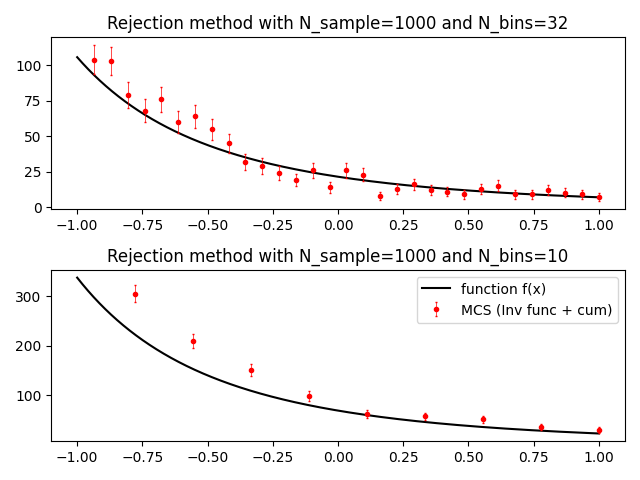
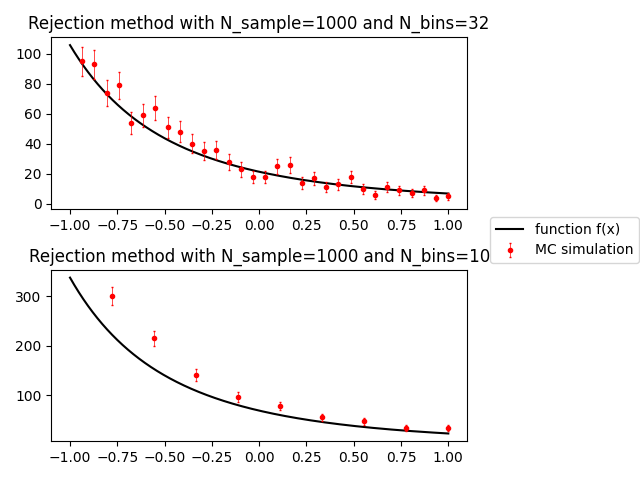
graphical improvements

diff --git a/Montecarlo/montecarlo_test.py b/Montecarlo/montecarlo_test.py
@@ -12,10 +12,11 @@ import os
 import sys
 sys.path.insert(0, '/home/lorenzo/GCE-and-MSPs/toolbox')
 from tools import bounded_norm_distr, bisection, newton_root_finder, log_scale_int, accum_func, func_shifter, func_norm, gaussian
+from gce import broken_pl, log_norm
 start_time = time.monotonic()
 
 
-exercise = 7      #to execute only one exercise at time
+exercise = 8      #to execute only one exercise at time
 
 #**************************************************************
 #plotting config
@@ -103,7 +104,7 @@ elif exercise == 3 :
     M = 5.0                               # Parameter of selection (must be as small as possible) 
     rng = np.random.default_rng()
 
-    comparison = True                       #If True generates different M comparison instead of simple plot
+    comparison = False                      #If True generates different M comparison instead of simple plot
  #-----------------------------------------------
  #Gaussian distr parameters   
     sigma = 1.0 
@@ -170,7 +171,8 @@ elif exercise == 3 :
         #ax.scatter(bin_means, y_n, marker = marker_st, color = marker_color)
         ax.errorbar(bin_means, y_n , yerr = y_err, color='r', capsize=1, capthick=1,ls='', elinewidth=0.5,marker='o',markersize=3, label = 'MCS (Rej-Acc method)')
         ax.plot(draw, func_norm(draw, myfunc, x_min, x_max, sample_dim)* bin_dim, color = "black", label = "function f(x)")
-        #ax.plot(draw, myfunc(draw) /i , color = "black", label = "function f(x)")
+        title = "Rejection method MCS  with N_sample = " + str(int(sample_dim))
+        ax.set_title(title)
 
         plt.legend()
         plt.savefig(os.path.join("RAM_function_sample.png"))
@@ -188,11 +190,10 @@ elif exercise == 3 :
 
 
         y_err = (y_n)**0.5                                              #error on counts
-        ax1.errorbar(bin_means, y_n , yerr = y_err, color='r', capsize=1, capthick=1,ls='', elinewidth=0.5,marker='o',markersize=3, label = 'MCS (Rej-Acc method)')
+        ax1.errorbar(bin_means, y_n , yerr = y_err, color='r', capsize=1, capthick=1,ls='', elinewidth=0.5,marker='o',markersize=3, label = 'MC simulation')
         ax1.plot(draw, func_norm(draw, myfunc, x_min, x_max, sample_dim)* bin_dim, color = "black", label = "function f(x)")
         title = "Rejection method (M = " + str(M) + ")"
         ax1.set_title(title)
-        plt.legend()
 
         temp = []
         counter = 0                     #counter of successfully selected points 
@@ -222,12 +223,14 @@ elif exercise == 3 :
 
 
         y_err = (y_n)**0.5                                              #error on counts
-        ax2.errorbar(bin_means, y_n , yerr = y_err, color='r', capsize=1, capthick=1,ls='', elinewidth=0.5,marker='o',markersize=3, label = 'MCS (Rej-Acc method)')
-        ax2.plot(draw, func_norm(draw, myfunc, x_min, x_max, sample_dim)* bin_dim, color = "black", label = "function f(x)")
+        ax2.errorbar(bin_means, y_n , yerr = y_err, color='r', capsize=1, capthick=1,ls='', elinewidth=0.5,marker='o',markersize=3)
+        ax2.plot(draw, func_norm(draw, myfunc, x_min, x_max, sample_dim)* bin_dim, color = "black")
         title = "Rejection method (M = " + str(M) + ")"
         ax2.set_title(title)
 
+        fig.legend(loc = 'center right',  borderaxespad=0.1,)
         fig.tight_layout()
+        plt.subplots_adjust(right = 0.75)
         plt.savefig(os.path.join("RAM_diff_M.png"))
 
 #**************************************************************
@@ -320,7 +323,7 @@ elif exercise == 5 :
     mid = (x_max + x_min)/2.0               #middle point can be use as first extimator
     draw = np.linspace(x_min, x_max, 10000)
 
-    guess_comp = False                       #generate plot for different guess point comparison
+    guess_comp = True                       #generate plot for different guess point comparison
   #-----------------------------------------------
  #f(x) parameters
     k = 1.0
@@ -381,9 +384,11 @@ elif exercise == 5 :
 
         y_err = (y_n)**0.5                                          #error on counts
         #count, bins, ignored = ax.hist(x, n_bins, density=True)
-        ax.errorbar(bin_means, y_n , yerr = y_err, color='r', capsize=1, capthick=1,ls='', elinewidth=0.5,marker='o',markersize=3, label = 'MCS (Inv func + fsolve)')
-    
+        ax.errorbar(bin_means, y_n , yerr = y_err, color='r', capsize=1, capthick=1,ls='', elinewidth=0.5,marker='o',markersize=3, label = 'MCS (Inv func + fsolve)')    
         ax.plot(draw, myfunc(draw)*bin_dim*sample_dim, color = "black", label = "function f(x)")
+        title = "Inverse function method (via fsolve) with N_sample = " + str(int(sample_dim))
+        ax.set_title(title)
+
 
         plt.legend()
         plt.savefig(os.path.join("inv_func_sample(fsolve).png"))
@@ -401,7 +406,7 @@ elif exercise == 5 :
 
         y_err = (y_n)**0.5                                          #error on counts
         #count, bins, ignored = ax.hist(x, n_bins, density=True)
-        ax1.errorbar(bin_means, y_n , yerr = y_err, color='r', capsize=1, capthick=1,ls='', elinewidth=0.5,marker='o',markersize=3, label = 'MCS (Inv func + fsolve)')
+        ax1.errorbar(bin_means, y_n , yerr = y_err, color='r', capsize=1, capthick=1,ls='', elinewidth=0.5,marker='o',markersize=3, label = 'MC simulation')
     
         ax1.plot(draw, myfunc(draw)*bin_dim*sample_dim, color = "black", label = "function f(x)")
         ax1.set_title("Mid point as guess")
@@ -430,13 +435,13 @@ elif exercise == 5 :
 
         y_err = (y_n)**0.5                                          #error on counts
         #count, bins, ignored = ax.hist(x, n_bins, density=True)
-        ax2.errorbar(bin_means, y_n , yerr = y_err, color='r', capsize=1, capthick=1,ls='', elinewidth=0.5,marker='o',markersize=3, label = 'MCS (Inv func + fsolve)')
-    
-        ax2.plot(draw, myfunc(draw)*bin_dim*sample_dim, color = "black", label = "function f(x)")
+        ax2.errorbar(bin_means, y_n , yerr = y_err, color='r', capsize=1, capthick=1,ls='', elinewidth=0.5,marker='o',markersize=3)
+        ax2.plot(draw, myfunc(draw)*bin_dim*sample_dim, color = "black")
         ax2.set_title("Starting point as guess")
         
+        fig.legend(loc = 'center right',  borderaxespad=0.1,)
         fig.tight_layout()
-        plt.legend()
+        plt.subplots_adjust(right = 0.75)
         plt.savefig(os.path.join("fsolve_diff_guess.png"))
 
 #**************************************************************
@@ -542,7 +547,7 @@ elif exercise == 7 :
     draw = np.linspace(x_min, x_max, 10000)
     fig, ax = plt.subplots()
 
-    comparison =  True              #if True generated diff n_bins comparison instead of simple plot
+    comparison =  False              #if True generated diff n_bins comparison instead of simple plot
  #-----------------------------------------------
     sample_dim = 1.0e3                      #sample dimension
     n_bins = round(sample_dim**0.5)         #number of bins
@@ -604,7 +609,8 @@ elif exercise == 7 :
         y_draw = vector_func(draw, *arg)
         y_err = y_n ** 0.5
         ax.plot(draw, y_draw/norm*sample_dim*bin_dim, color = "black", label = "function f(x)")
-
+        title = "Inverse function method (via cumulative func)  with N_sample = " + str(int(sample_dim))
+        ax.set_title(title)
         #count, bins, ignored = ax.hist(x, n_bins, density=True)
         ax.errorbar(cum_points[1:], y_n[1:] , yerr = y_err[1:], color='r', capsize=1, capthick=1,ls='', elinewidth=0.5,marker='o',markersize=3, label = 'MCS (Inv func + cum)')
 
@@ -618,7 +624,7 @@ elif exercise == 7 :
         y_draw = vector_func(draw, *arg)
         y_err = y_n ** 0.5
         ax1.plot(draw, y_draw/norm*sample_dim*bin_dim, color = "black", label = "function f(x)")
-        ax1.errorbar(cum_points[1:], y_n[1:] , yerr = y_err[1:], color='r', capsize=1, capthick=1,ls='', elinewidth=0.5,marker='o',markersize=3, label = 'MCS (Inv func + cum)')
+        ax1.errorbar(cum_points[1:], y_n[1:] , yerr = y_err[1:], color='r', capsize=1, capthick=1,ls='', elinewidth=0.5,marker='o',markersize=3, label = 'MC simulation')
         title = r'Rejection method with N_sample=' + str(sample_dim) + r' and N_bins=' + str(n_bins)
         ax1.set_title(title)
 
@@ -652,13 +658,14 @@ elif exercise == 7 :
         print("Execution time with n_bins= " , str(n_bins), " :" , time2)
 
         y_err = y_n ** 0.5
-        ax2.plot(draw, y_draw/norm*sample_dim*bin_dim, color = "black", label = "function f(x)")
-        ax2.errorbar(cum_points[1:], y_n[1:] , yerr = y_err[1:], color='r', capsize=1, capthick=1,ls='', elinewidth=0.5,marker='o',markersize=3, label = 'MCS (Inv func + cum)')
+        ax2.plot(draw, y_draw/norm*sample_dim*bin_dim, color = "black")
+        ax2.errorbar(cum_points[1:], y_n[1:] , yerr = y_err[1:], color='r', capsize=1, capthick=1,ls='', elinewidth=0.5,marker='o',markersize=3)
         title = r'Rejection method with N_sample=' + str(sample_dim) + r' and N_bins=' + str(n_bins)
         ax2.set_title(title)
 
+        fig.legend(loc = 'center right',  borderaxespad=0.1,)
         fig.tight_layout()
-        plt.legend()
+        plt.subplots_adjust(right = 0.73)
         plt.savefig(os.path.join("Cumulative_diff_nbins.png"))       
 #**************************************************************
 #INVERSE FUNCTION (ACCUMULATION) METHOD SAMPLING (cum func method on lum func)
@@ -671,36 +678,30 @@ elif exercise == 8 :
     draw_min = 1.0e29
     draw_max = 1.0e38
     fig, ax = plt.subplots()
-    ax.set_xlim(draw_min, x_max)
+    ax.set_xlim(draw_min, draw_max)
     plt.ylim(1.0e-45 , 1.2e-27)
 
  #-----------------------------------------------
-    sample_dim = 1.0e5            
-    n_bins = round(sample_dim**0.5)
+    sample_dim = 1.0e4            
+    n_bins = 30
 
  #-----------------------------------------------
-    test_func = 1
+    test_func = 4
     if test_func == 0: 
-        arg = (1.0, 1.0e33, 0.97, 2.6)      #disk data for ex
-        def myfunc(x, norm, x_b, n1, n2):   #broken power law function  (be carefull about exponential renorm)  
-            frac = x / x_b
-            if  frac < 1:
-                frac = frac**(-n1)
-            else:
-                frac = frac**(-n2)
-        
-            return (norm *frac)
+        arg = (1.0, 1.0e33, 0.97, 2.6)#disk BPL
+        myfunc = broken_pl  
     elif test_func == 1:
-        arg = (1.0, 2.5e34, -0.66, 18.2)      #NPTF data for ex
-        def myfunc(x, norm, x_b, n1, n2):   #broken power law function  (be carefull about exponential renorm)  
-            frac = x / x_b
-            if  frac < 1:
-                frac = frac**(-n1)
-            else:
-                frac = frac**(-n2)
-        
-            return (norm *frac)
-
+        arg = (1.0, 2.5e34, -0.66, 18.2)#NPTF BPL
+        myfunc = broken_pl  
+    elif test_func == 2:                    
+        arg = (8.8e33, 0.62)#GLC log norm 
+        myfunc = log_norm
+    elif test_func == 3:#GCE log norm
+        arg = (1.3e32, 0.70)
+        myfunc = log_norm
+    elif test_func == 4:#AIC log norm
+        arg = (4.3e30, 0.94)
+        myfunc = log_norm
  #--------------------------
 
     cum_points = np.geomspace(x_min, x_max, n_bins, endpoint = False)    #points where to evaluate cum funct (to be fixed)
@@ -733,7 +734,7 @@ elif exercise == 8 :
   #print controls
     #print(cum_points)
     #print(bin_dim)
-    #print(cum_values)
+    print(cum_values)
     #print(y_n)
 
  #-----------------------------------------------
@@ -746,6 +747,8 @@ elif exercise == 8 :
     y_err = y_n ** 0.5
     #count, bins, ignored = ax.hist(x, n_bins, density=True)
     ax.errorbar(cum_points[1:], y_n[1:]*(1.0/bin_dim[1:])/sample_dim, yerr = y_err[1:]*(1.0/bin_dim[1:])/sample_dim, color='r', capsize=1, capthick=1,ls='', elinewidth=0.5,marker='o',markersize=3, label = 'MCS (Inv func + cum)')
+    title = "IF(cumulative func) - N_sample = " + str(int(sample_dim)) + ", N_bins = " + str(n_bins)
+    ax.set_title(title)
 
     plt.legend()
     plt.savefig(os.path.join("inv_func_sample_lum_func.png"))
@@ -880,8 +883,8 @@ elif exercise == 9:
     #cumulative
     y_err_cum = y_n_cum ** 0.5
     #count, bins, ignored = ax.hist(x, n_bins, density=True)
-    ax1.plot(draw, y_draw/norm*sample_dim*bin_dim, color = "black", label = "function f(x)")
-    ax1.errorbar(cum_points[1:], y_n_cum[1:] , yerr = y_err_cum[1:], color='r', capsize=1, capthick=1,ls='', elinewidth=0.5,marker='o',markersize=3, label = 'Inv func + cum')
+    ax1.plot(draw, y_draw/norm*sample_dim*bin_dim, color = "black", label = "Function f(x)")
+    ax1.errorbar(cum_points[1:], y_n_cum[1:] , yerr = y_err_cum[1:], color='r', capsize=1, capthick=1,ls='', elinewidth=0.5,marker='o',markersize=3, label = 'MCS IF-c')
     title = "Cumulative func. technique - (t_ex = " + str(cum_time.total_seconds()) + " s)"
     ax1.set_title(title)
 
@@ -894,9 +897,9 @@ elif exercise == 9:
     bin_dim_fs = np.diff(bin_edges_fs)[0]                              #bins width
 
     y_err_fs = (y_n_fs)**0.5                                          #error on counts
-    ax2.plot(draw, y_draw/norm*sample_dim*bin_dim, color = "black", label = "function f(x)")
+    ax2.plot(draw, y_draw/norm*sample_dim*bin_dim, color = "black")
     #count, bins, ignored = ax.hist(x, n_bins, density=True)
-    ax2.errorbar(bin_means_fs, y_n_fs , yerr = y_err_fs, color='blue', capsize=1, capthick=1,ls='', elinewidth=0.5,marker='o',markersize=3, label = 'Inv func + fsolve')
+    ax2.errorbar(bin_means_fs, y_n_fs , yerr = y_err_fs, color='blue', capsize=1, capthick=1,ls='', elinewidth=0.5,marker='o',markersize=3, label = 'MCS IF-f')
     title = "fsolve technique - (t_ex = " + str(fsolve_time.total_seconds()) + " s)"
     ax2.set_title(title)
 
@@ -909,13 +912,14 @@ elif exercise == 9:
     bin_dim_rej = np.diff(bin_edges_rej)[0]                                #bins width
 
     y_err_rej = (y_n_rej)**0.5                                              #error on counts
-    ax3.plot(draw, y_draw/norm*sample_dim*bin_dim, color = "black", label = "function f(x)")
-    ax3.errorbar(bin_means_rej, y_n_rej , yerr = y_err_rej, color='g', capsize=1, capthick=1,ls='', elinewidth=0.5,marker='o',markersize=3, label = 'Rej-Acc method')
+    ax3.plot(draw, y_draw/norm*sample_dim*bin_dim, color = "black")
+    ax3.errorbar(bin_means_rej, y_n_rej , yerr = y_err_rej, color='g', capsize=1, capthick=1,ls='', elinewidth=0.5,marker='o',markersize=3, label = 'MCS RAM')
     title = "Rejection method - (t_ex = " + str(rej_time.total_seconds()) + " s)"
     ax3.set_title(title)   
      
+    fig.legend(loc = 'center right',  borderaxespad=0.1,)
     fig.tight_layout()
-    #plt.legend()
+    plt.subplots_adjust(right = 0.73)
     plt.savefig(os.path.join("comparing.png"))
 
 end_time = time.monotonic()
